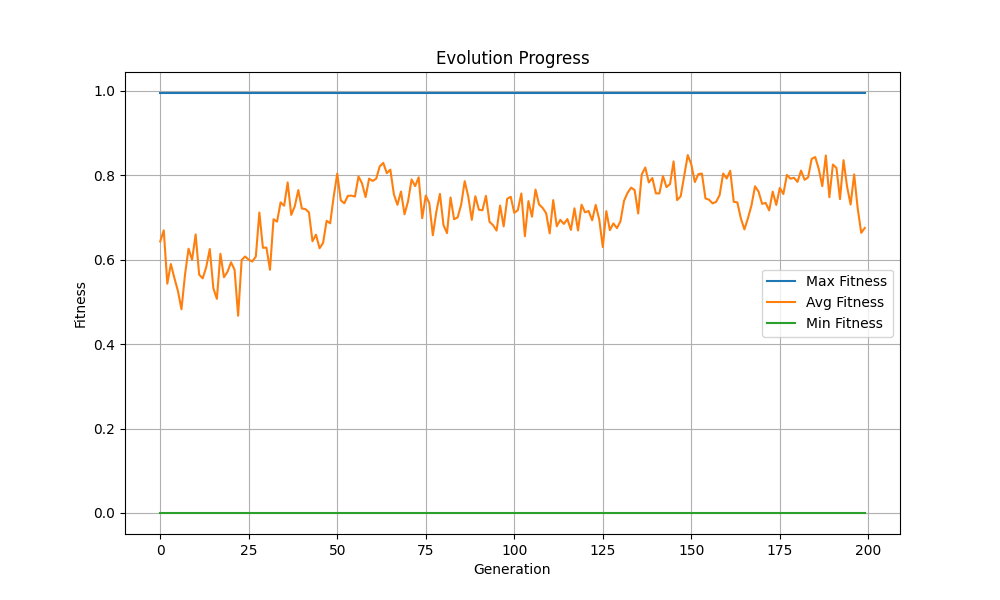
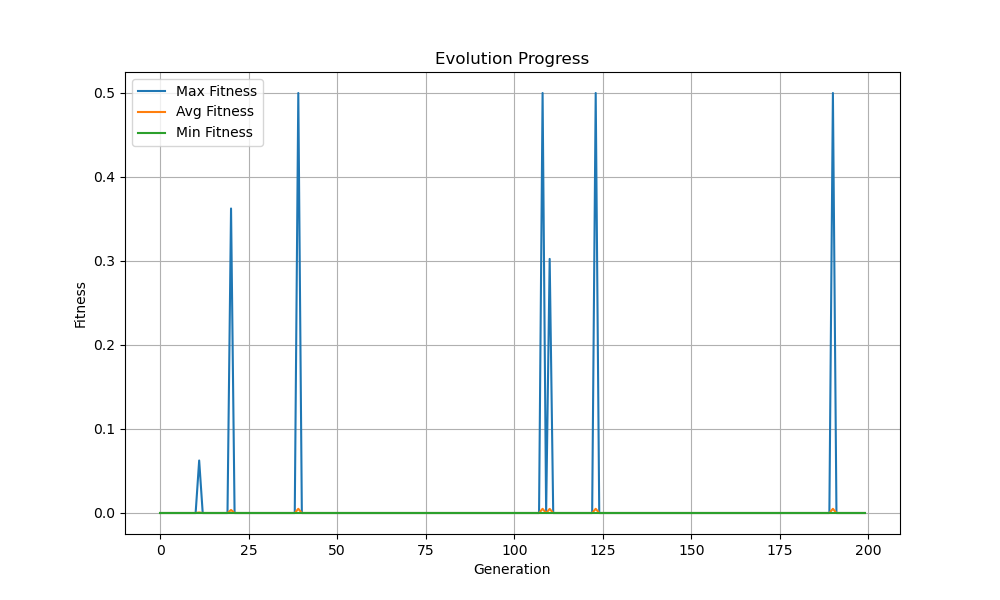
debug and log

Changed region(s): [[0.093, 0.12, 0.899, 0.87], [0.434, 0.09, 0.589, 0.12], [0.31, 0.9, 0.341, 0.93]]

diff --git a/agents/base_agent.py b/agents/base_agent.py
@@ -71,74 +71,29 @@ class Animat:
         
     def initialize_random_genome(self):
         """Initialize a random genome for the animat.
-        
         Only 9 links are genetically specified due to left-right symmetry.
         The genome encodes links for left-side sensors, and right-side links are mirrored.
         """
-        # Genome format (per link):
-        # [offset, grad1, thresh1, grad2, thresh2, grad3, slope_mod, offset_mod, battery]
-        # Final 2 genes are sigmoid thresholds for wheels
-        
+        # Genome format (per link): [weight, bias], final 2 genes are sigmoid thresholds for wheels
         genome_size = settings.GENOTYPE_SIZE
         self.genome = np.random.randint(0, 100, genome_size)
-        
-        # Set battery indicators for the 9 encoded links (even=battery1, odd=battery2)
-        for i in range(0, settings.NUM_LINKS * settings.LINK_PARAM_COUNT, settings.LINK_PARAM_COUNT):
-            # Every 9th gene indicates battery
-            self.genome[i + 8] = np.random.choice([0, 1])  # 0 for battery 1, 1 for battery 2
-            
+
     def parse_genome(self):
         """Parse the genome into sensorimotor links with left-right symmetry enforcement.
-        
         The genome encodes links for left-side sensors, and right-side links are mirrored.
         """
         self.links = []
         encoded_links = []
         for i in range(0, settings.NUM_LINKS * settings.LINK_PARAM_COUNT, settings.LINK_PARAM_COUNT):
-            # Scale offset (0-99 to -100 to +100)
-            offset_val = self._scale_genome_value(self.genome[i], -100.0, 100.0)
-
-            # Scale gradients (0-99 to -pi/2 to +pi/2, then tan)
-            angle1 = (self.genome[i + 1] / 99.0) * np.pi - (np.pi / 2.0)
-            angle1 = np.clip(angle1, -np.pi/2.0 * 0.99, np.pi/2.0 * 0.99)
-            grad1_val = np.tan(angle1)
-
-            # Scale threshold 1 (0-99 to -100 to +100)
-            thresh1_val = self._scale_genome_value(self.genome[i + 2], -100.0, 100.0)
-
-            angle2 = (self.genome[i + 3] / 99.0) * np.pi - (np.pi / 2.0)
-            angle2 = np.clip(angle2, -np.pi/2.0 * 0.99, np.pi/2.0 * 0.99)
-            grad2_val = np.tan(angle2)
-
-            # Scale raw thresh2 value first (0-99 to -100 to +100)
-            thresh2_raw_scaled = self._scale_genome_value(self.genome[i + 4], -100.0, 100.0)
-            # Enforce that the second threshold must follow the first
-            thresh2_val = max(thresh1_val, thresh2_raw_scaled)
-
-            angle3 = (self.genome[i + 5] / 99.0) * np.pi - (np.pi / 2.0)
-            angle3 = np.clip(angle3, -np.pi/2.0 * 0.99, np.pi/2.0 * 0.99)
-            grad3_val = np.tan(angle3)
-
-            # Slope and offset modulation degrees (paper does not explicitly scale these beyond being 0-99 derived)
-            # Current code uses / 10.0. Retaining this specific scaling.
-            slope_mod_val = self.genome[i + 6] / 10.0
-            offset_mod_val = self.genome[i + 7] / 10.0
-            
-            battery_val = self.genome[i + 8] # Already 0 or 1, used directly
-
+            # Scale weight (0-99 to -1.0 to 1.0)
+            weight = self._scale_genome_value(self.genome[i], -1.0, 1.0)
+            # Scale bias (0-99 to -0.5 to 0.5)
+            bias = self._scale_genome_value(self.genome[i + 1], -0.5, 0.5)
             link_params = {
-                'offset': offset_val,
-                'grad1': grad1_val,
-                'thresh1': thresh1_val,
-                'grad2': grad2_val,
-                'thresh2': thresh2_val,
-                'grad3': grad3_val,
-                'slope_mod': slope_mod_val,
-                'offset_mod': offset_mod_val,
-                'battery': battery_val,
+                'weight': weight,
+                'bias': bias
             }
             encoded_links.append(link_params)
-        
         # Now create the full links with symmetry
         num_sensors = settings.NUM_SENSORS
         for sensor_idx in range(num_sensors):
@@ -150,6 +105,7 @@ class Animat:
                     left_sensor_idx = sensor_idx - 1
                     encoded_idx = (left_sensor_idx // 2) * 3 + link_offset
                     self.links.append(encoded_links[encoded_idx].copy())
+
     def get_sensor_to_wheel_mapping(self, sensor_index):
         """Determine which wheel a sensor connects to based on side.
         
@@ -163,36 +119,17 @@ class Animat:
         
     def compute_sensor_to_wheel_output(self, sensor_value, link_index):
         """Compute the output of a sensorimotor link.
-        
         Args:
             sensor_value: Current sensor reading (0-100)
             link_index: Index of the link to use
-            
         Returns:
             Output value contribution to wheel
         """
         link = self.links[link_index]
-        
-        # Determine which battery influences this link
-        battery_level = self.batteries[link['battery']]
-        battery_factor = battery_level / settings.BATTERY_MAX  # 0-1 normalized
-        
-        # Apply battery modulation to parameters
-        slope = link['grad1']
-        if sensor_value > link['thresh1']:
-            slope = link['grad2']
-        if sensor_value > link['thresh2']:
-            slope = link['grad3']
-        
-        # Apply battery modulation to slope and offset
-        modulated_slope = slope + (link['slope_mod'] * battery_factor)
-        modulated_offset = link['offset'] + (link['offset_mod'] * battery_factor)
-        
-        # Compute output
-        output = modulated_offset + (modulated_slope * sensor_value)
-        
-        # Limit output to range [-1, 1]
-        return max(-1.0, min(1.0, output))
+        weight = link['weight']
+        bias = link['bias']
+        output = (sensor_value * weight) + bias
+        return output
         
     def compute_wheel_speed(self, sensor_readings):
         """Compute wheel speeds based on sensor readings and sensorimotor links.
@@ -258,8 +195,19 @@ class Animat:
         # Get sensor readings from environment
         sensor_readings = environment.get_sensor_readings(self)
         
+        # Debug: Print sensor values and wheel speeds for first 3 animats and first 10 steps
+        if hasattr(self, 'debug_id') and self.debug_id < 3:
+            if not hasattr(self, 'debug_step'):
+                self.debug_step = 0
+            if self.debug_step < 10:
+                print(f"Animat {self.debug_id} Step {self.debug_step}: Sensors: {sensor_readings}")
+        
         # Compute wheel speeds
         self.compute_wheel_speed(sensor_readings)
+        
+        if hasattr(self, 'debug_id') and self.debug_id < 3 and hasattr(self, 'debug_step') and self.debug_step < 10:
+            print(f"Animat {self.debug_id} Step {self.debug_step}: Wheel speeds: {self.wheel_speeds}")
+            self.debug_step += 1
         
         # Move based on wheel speeds
         self.move(dt)

diff --git a/config/settings.py b/config/settings.py
@@ -3,8 +3,8 @@ Configuration settings for the Animat model simulation.
 """
 
 #Window settings
-WINDOW_WIDTH = 1000
-WINDOW_HEIGHT = 1000
+WINDOW_WIDTH = 2000
+WINDOW_HEIGHT = 2000
 WINDOW_TITLE = "Animat Evolution Simulation"
 FPS = 60
 
@@ -13,28 +13,29 @@ ENV_SIZE = 200  # 200x200 area
 OBJECT_PLACEMENT_PADDING = 10
 FOOD_COUNT = 3
 WATER_COUNT = 3
-TRAP_COUNT = 9
+# TRAP_COUNT = 9
+TRAP_COUNT = 3
 
 #Animat settings
 ANIMAT_SIZE = 5
 SOURCE_SIZE = 16
 ANIMAT_MAX_SPEED = 2.8
-SENSOR_RANGE = 200
+SENSOR_RANGE = 100
 BATTERY_MAX = 200  # Paper specifies maximum and initial level of 200
 BATTERY_DECAY_RATE = 1.0  # Paper specifies decreases by 1 each time step
 ANIMAT_MAX_LIFESPAN = 800 # Maximum simulation steps for fitness evaluation
 
 #Genetic algorithm settings
-POPULATION_SIZE = 200
-MUTATION_RATE = 0.08  # 4% per bit (Note: current mutation is per-gene)
+POPULATION_SIZE = 100
+MUTATION_RATE = 0.04  # 4% per bit (Note: current mutation is per-gene)
 CROSSOVER_RATE = 0.8
 NUM_GENERATIONS = 200
 TOURNAMENT_SIZE = 5
 
 #Sensorimotor link settings
-LINK_PARAM_COUNT = 9
+LINK_PARAM_COUNT = 2  # Only weight and bias per link
 NUM_LINKS = 9  # Only 9 links need to be genetically specified due to left-right symmetry
-GENOTYPE_SIZE = NUM_LINKS * LINK_PARAM_COUNT + 2  # 9*9 + 2 = 83 total integers
+GENOTYPE_SIZE = NUM_LINKS * LINK_PARAM_COUNT + 2  # 9*2 + 2 = 20 total integers
 NUM_SENSORS = 6  # Default, will be updated
 
 def update_sensor_settings(num_animats):
@@ -45,7 +46,7 @@ def update_sensor_settings(num_animats):
     global NUM_LINKS, GENOTYPE_SIZE, NUM_SENSORS
     NUM_SENSORS = num_sensors
     NUM_LINKS = num_sensors * 3 // 2  # Only left-side links are encoded, right are mirrored
-    GENOTYPE_SIZE = NUM_LINKS * LINK_PARAM_COUNT + 2
+    GENOTYPE_SIZE = NUM_LINKS * LINK_PARAM_COUNT + 2  # Update for new LINK_PARAM_COUNT
 
 #Simulation mode
 HEADLESS_MODE = True  # Set to True to run simulations without visualization

diff --git a/main.py b/main.py
@@ -64,7 +64,6 @@ def main():
     
     if args.visualize_evolution:
         # Visualization specific settings for run_evolution_with_visualization
-        # These could be hardcoded or moved to config.py if they are fixed
         parallel_viz_default = 100 # Default if not specified elsewhere
         speed_multiplier_default = 1000 # Default if not specified elsewhere
         
@@ -72,10 +71,18 @@ def main():
         best_genome, best_fitness = simulator.run_evolution_with_visualization(
             args.generations, parallel_count=parallel_viz_default, speed_multiplier=speed_multiplier_default)
         
-        # Optionally, run the best animat after visualization
-        # This part can be kept or removed based on desired behavior after visualized evolution
-        print("Running simulation with best evolved animat after visualization")
-        simulator.run_best_animat(best_genome, max_time=6000, speed_multiplier=10) # Example parameters
+        # Simulate and plot the trajectory of the average agent in the last generation
+        fitnesses = simulator.ga.fitnesses
+        population = simulator.ga.population
+        if fitnesses and population:
+            avg_fitness = np.mean(fitnesses)
+            avg_idx = int(np.argmin([abs(f - avg_fitness) for f in fitnesses]))
+            avg_genome = population[avg_idx]
+            print(f"Simulating and visualizing the trajectory of the average agent (fitness={fitnesses[avg_idx]:.3f})...")
+            simulator.run_best_animat(avg_genome, max_time=60, speed_multiplier=1.0)
+            simulator.plot_best_trajectory()
+        else:
+            print('No fitness or population data available for the last generation.')
     
     print(f"Evolution complete! Best fitness: {best_fitness:.2f}")
     

diff --git a/core/simulator.py b/core/simulator.py
@@ -52,10 +52,11 @@ class Simulator:
         settings.TRAP_COUNT = trap_count
         settings.SENSOR_RANGE = sensor_range
         # Window size for visualization
+        min_window_size = 1000
         if width is None:
-            width = env_size
+            width = max(env_size, min_window_size)
         if height is None:
-            height = env_size
+            height = max(env_size, min_window_size)
         if headless is None:
             headless = settings.HEADLESS_MODE
         self.width = width
@@ -641,3 +642,21 @@ class Simulator:
         """Reset the simulation."""
         self.environment = Environment()
         self.simulation_time = 0 
+
+    def plot_best_trajectory(self):
+        import matplotlib.pyplot as plt
+        if not self.trajectory_to_draw:
+            print("No trajectory data to plot.")
+            return
+        xs, ys = zip(*self.trajectory_to_draw)
+        plt.figure(figsize=(8, 8))
+        plt.plot(xs, ys, marker='o', markersize=2, linewidth=1, label='Best Agent Trajectory')
+        plt.title('Trajectory of Best Agent in Last Generation')
+        plt.xlabel('X Position')
+        plt.ylabel('Y Position')
+        plt.legend()
+        plt.grid(True)
+        plt.axis('equal')
+        plt.savefig('best_agent_trajectory.png')
+        print('Best agent trajectory saved to best_agent_trajectory.png')
+        plt.show() 

diff --git a/agents/agent_logic.py b/agents/agent_logic.py
@@ -103,19 +103,17 @@ class GeneticAlgorithm:
             Mutated genome
         """
         mutated_genome = genome.copy()
-        
         for i in range(len(mutated_genome)):
             # Apply mutation with probability mutation_rate
             if random.random() < self.mutation_rate:
-                # Battery genes (every 9th gene) can only be 0 or 1
-                if (i % settings.LINK_PARAM_COUNT == 8) and (i < settings.NUM_LINKS * settings.LINK_PARAM_COUNT):
-                    mutated_genome[i] = 1 - mutated_genome[i]  # Flip 0 to 1 or 1 to 0
+                # For weight and bias genes (all except last 2): small step mutation
+                if i < settings.NUM_LINKS * settings.LINK_PARAM_COUNT:
+                    mutated_genome[i] += random.randint(-3, 3)
                 else:
-                    # For other genes, add a random value between -10 and 10
+                    # For sigmoid thresholds, keep previous mutation
                     mutated_genome[i] += random.randint(-10, 10)
-                    # Keep values in appropriate ranges
-                    mutated_genome[i] = max(-50, min(50, mutated_genome[i]))
-                    
+                # Clamp to [0, 99]
+                mutated_genome[i] = max(0, min(99, mutated_genome[i]))
         return mutated_genome
         
     def evolve_generation(self):

diff --git a/core/environment.py b/core/environment.py
@@ -305,6 +305,8 @@ class Environment:
                 elif entity.type == EntityType.TRAP:
                     # Animat dies
                     animat.active = False
+                    animat.batteries[0]= 0
+                    animat.batteries[1]= 0  # Deplete both batteries
                     
             # Battery decay if animats are close
             if self.num_animats > 1:
